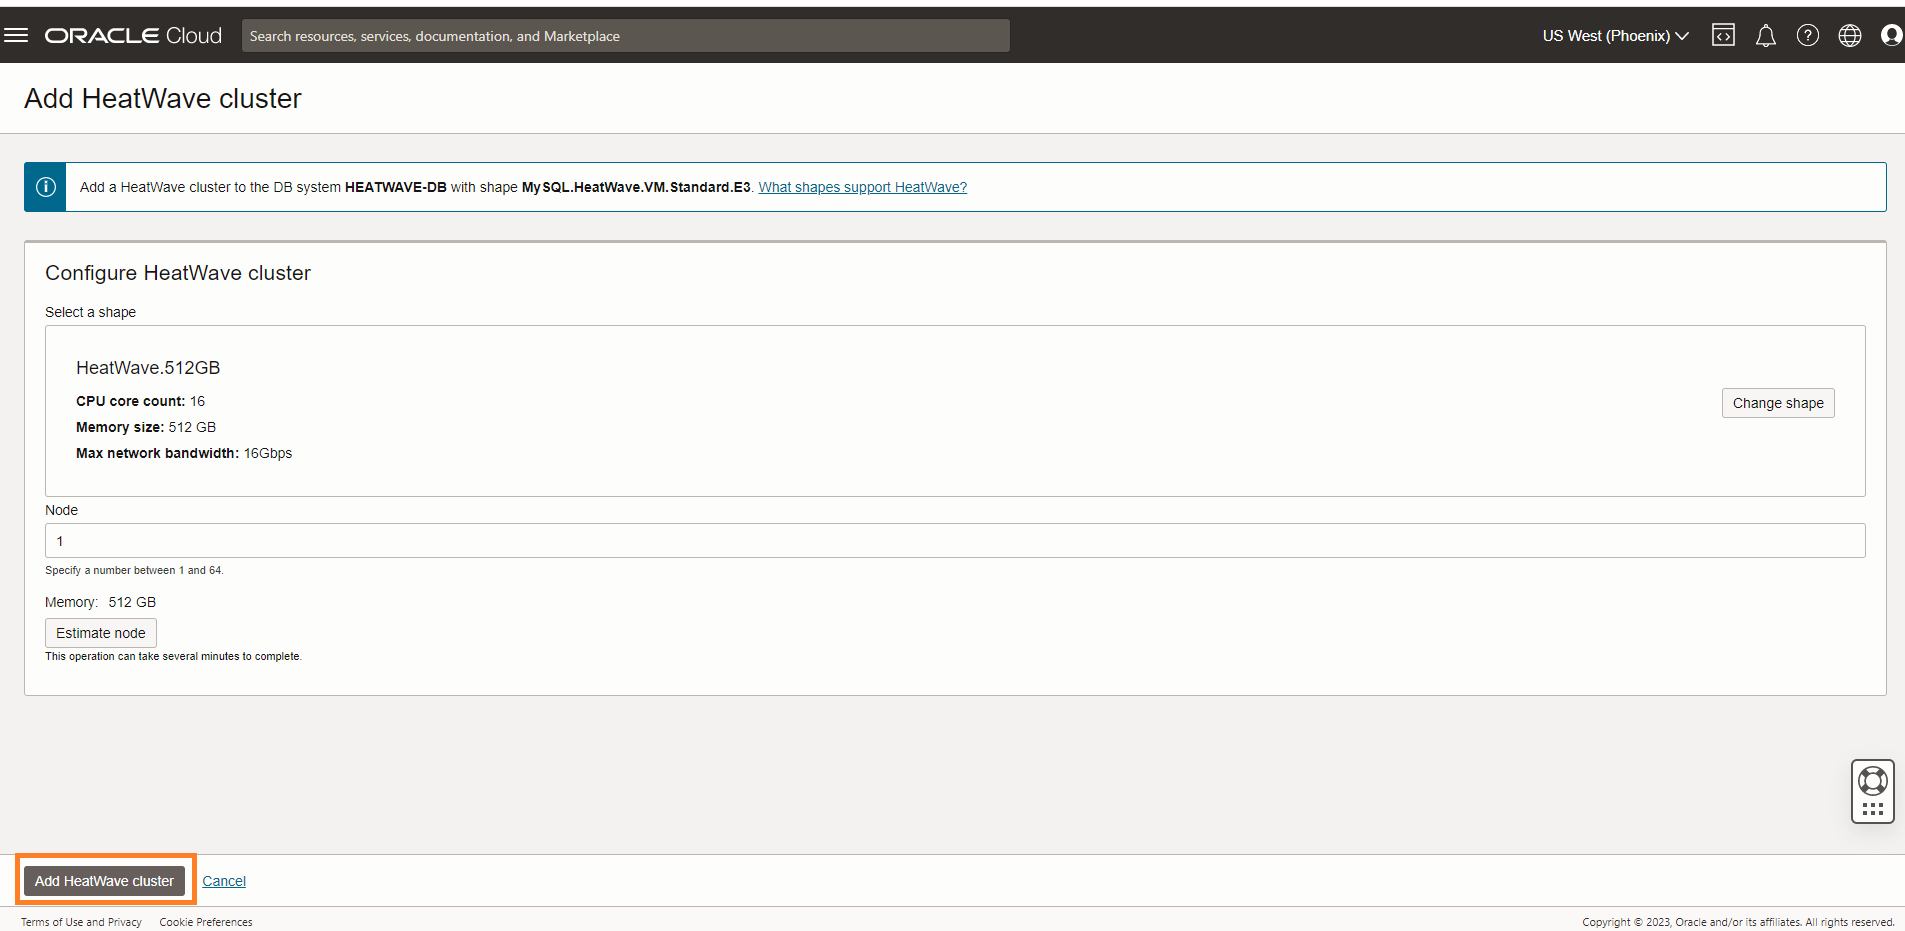
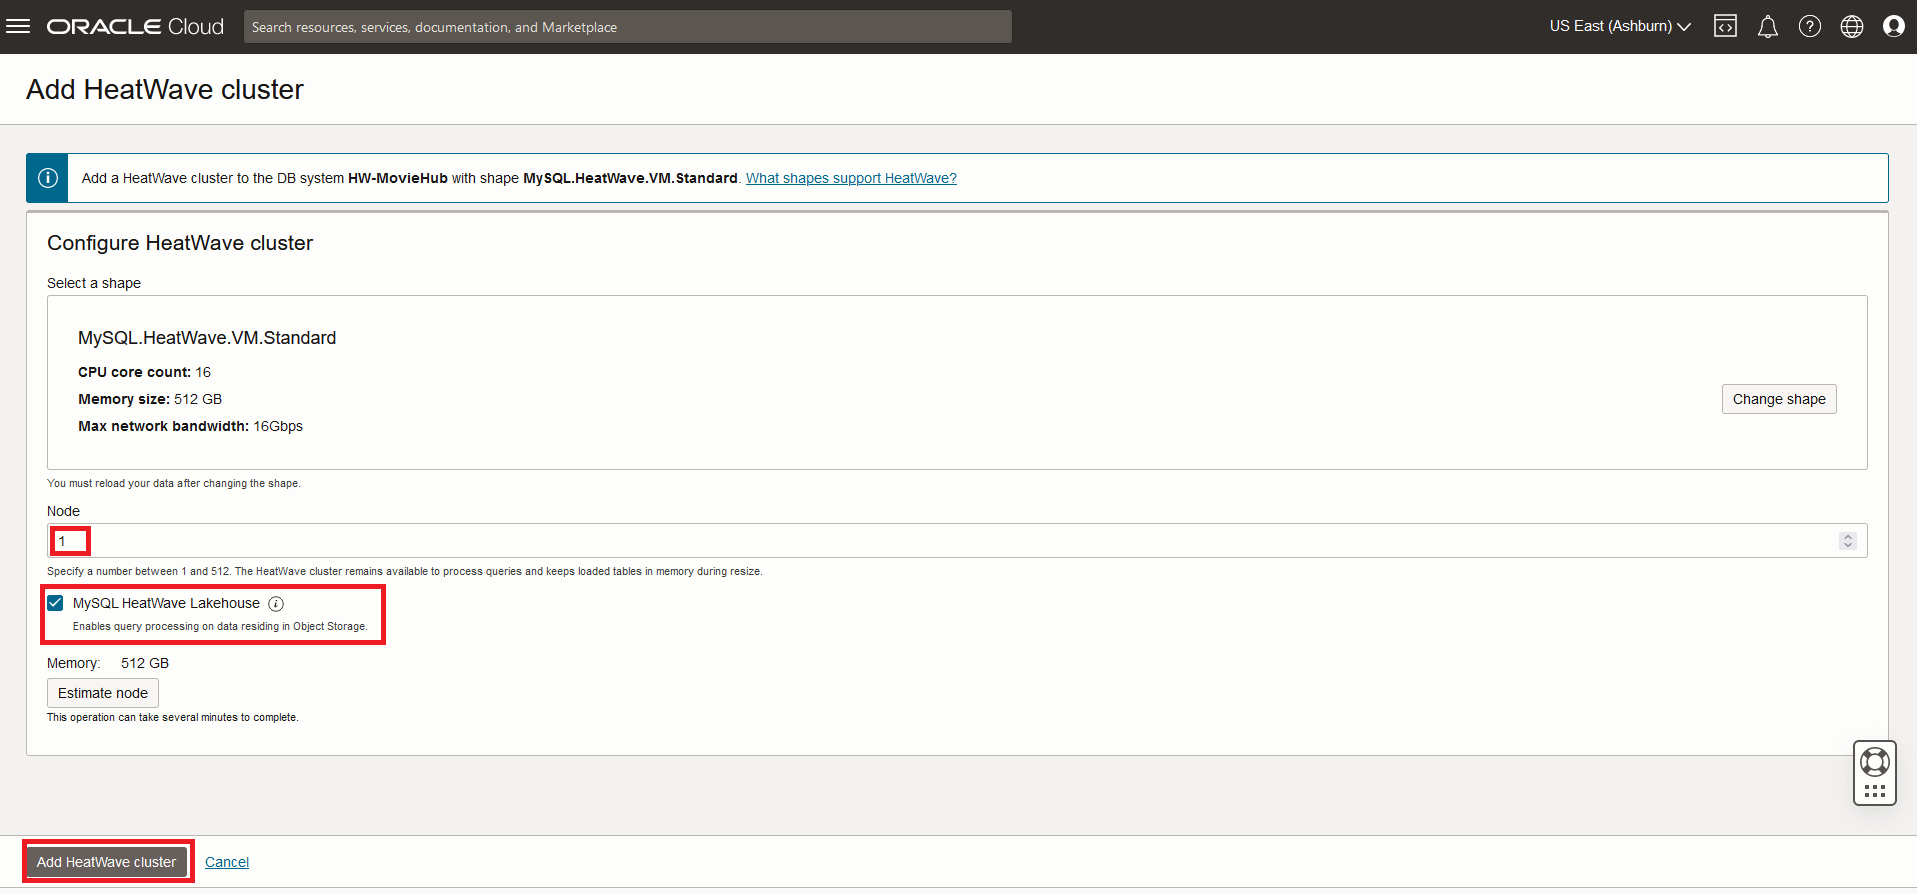
updated
updated

diff --git a/create-automl/create-automl.md b/create-automl/create-automl.md
@@ -76,15 +76,8 @@ In this lab, you will be guided through the following task:
 
     ![data0 table description detail](./images/data0-table-description.png "data0-table-description ")
 
-## Task 3: Load the movie database to HeatWave Cluster
 
-1. Load the movie tables into the HeatWave cluster memory:
-
-    ```bash
-    <copy>CALL sys.heatwave_load(JSON_ARRAY('movies'), NULL);</copy>
-    ```
-
-## Task 4: Train one ML model with the original data table: data0
+## Task 3: Train one ML model with the original data table: data0
 
 1. Train the model using ML_TRAIN. Since this is a recommendation dataset, the recommendation task is specified to create a recommendation model:
 
@@ -135,7 +128,7 @@ In this lab, you will be guided through the following task:
 
     ![ml model 1 predict row for user 600](./images/ml-model1-predict-row-user600.png "ml-model1-predict-row-user 600 ")
 
-## Task 5: Train two more ML models with the remaining data tables: data1 and data2
+## Task 4: Train two more ML models with the remaining data tables: data1 and data2
 
 1. Train the ML models:
 
@@ -192,7 +185,7 @@ In this lab, you will be guided through the following task:
 
     g. Hit **ENTER** to execute the last command
 
-## Task 6: Predict individual ROWS with the different trained models
+## Task 5: Predict individual ROWS with the different trained models
 
 1. Test the model to predict the TOP 3 items recommended for a given user.
 

diff --git a/setup-hw-cluster/setup-hw-cluster.md b/setup-hw-cluster/setup-hw-cluster.md
@@ -34,12 +34,13 @@ In this lab, you will be guided through the following task:
 3. In the list of DB Systems, click the **HW-MovieHub** system. click **More Action ->  Add HeatWave Cluster**.
     ![mysql more actions add cluster](./images/mysql-more-actions-add-cluster.png " mysql more actions add cluster")
 
-4. On the “Add HeatWave Cluster” dialog, select the “HeatWave.512GB” shape
+4. Enable the MySQL HeatWave LakeHouse checkbox
+5. Set Node Count to 1 for this Lab Click Add HeatWave Cluster to create the HeatWave cluster
 
-5. Click “Add HeatWave Cluster” to create the HeatWave cluster
+6. Click “Add HeatWave Cluster” to create the HeatWave cluster
     ![mysql apply cluster](./images/mysql-apply-cluster.png " mysql apply cluster")
 
-6. HeatWave creation will take about 10 minutes. From the DB display page scroll down to the Resources section. Click the **HeatWave** link. Your completed HeatWave Cluster Information section will look like this:
+7. HeatWave creation will take about 10 minutes. From the DB display page scroll down to the Resources section. Click the **HeatWave** link. Your completed HeatWave Cluster Information section will look like this:
     ![mysql creating cluster](./images/mysql-creating-cluster.png "mysql creating cluster ")
 
 You may now **proceed to the next lab**
